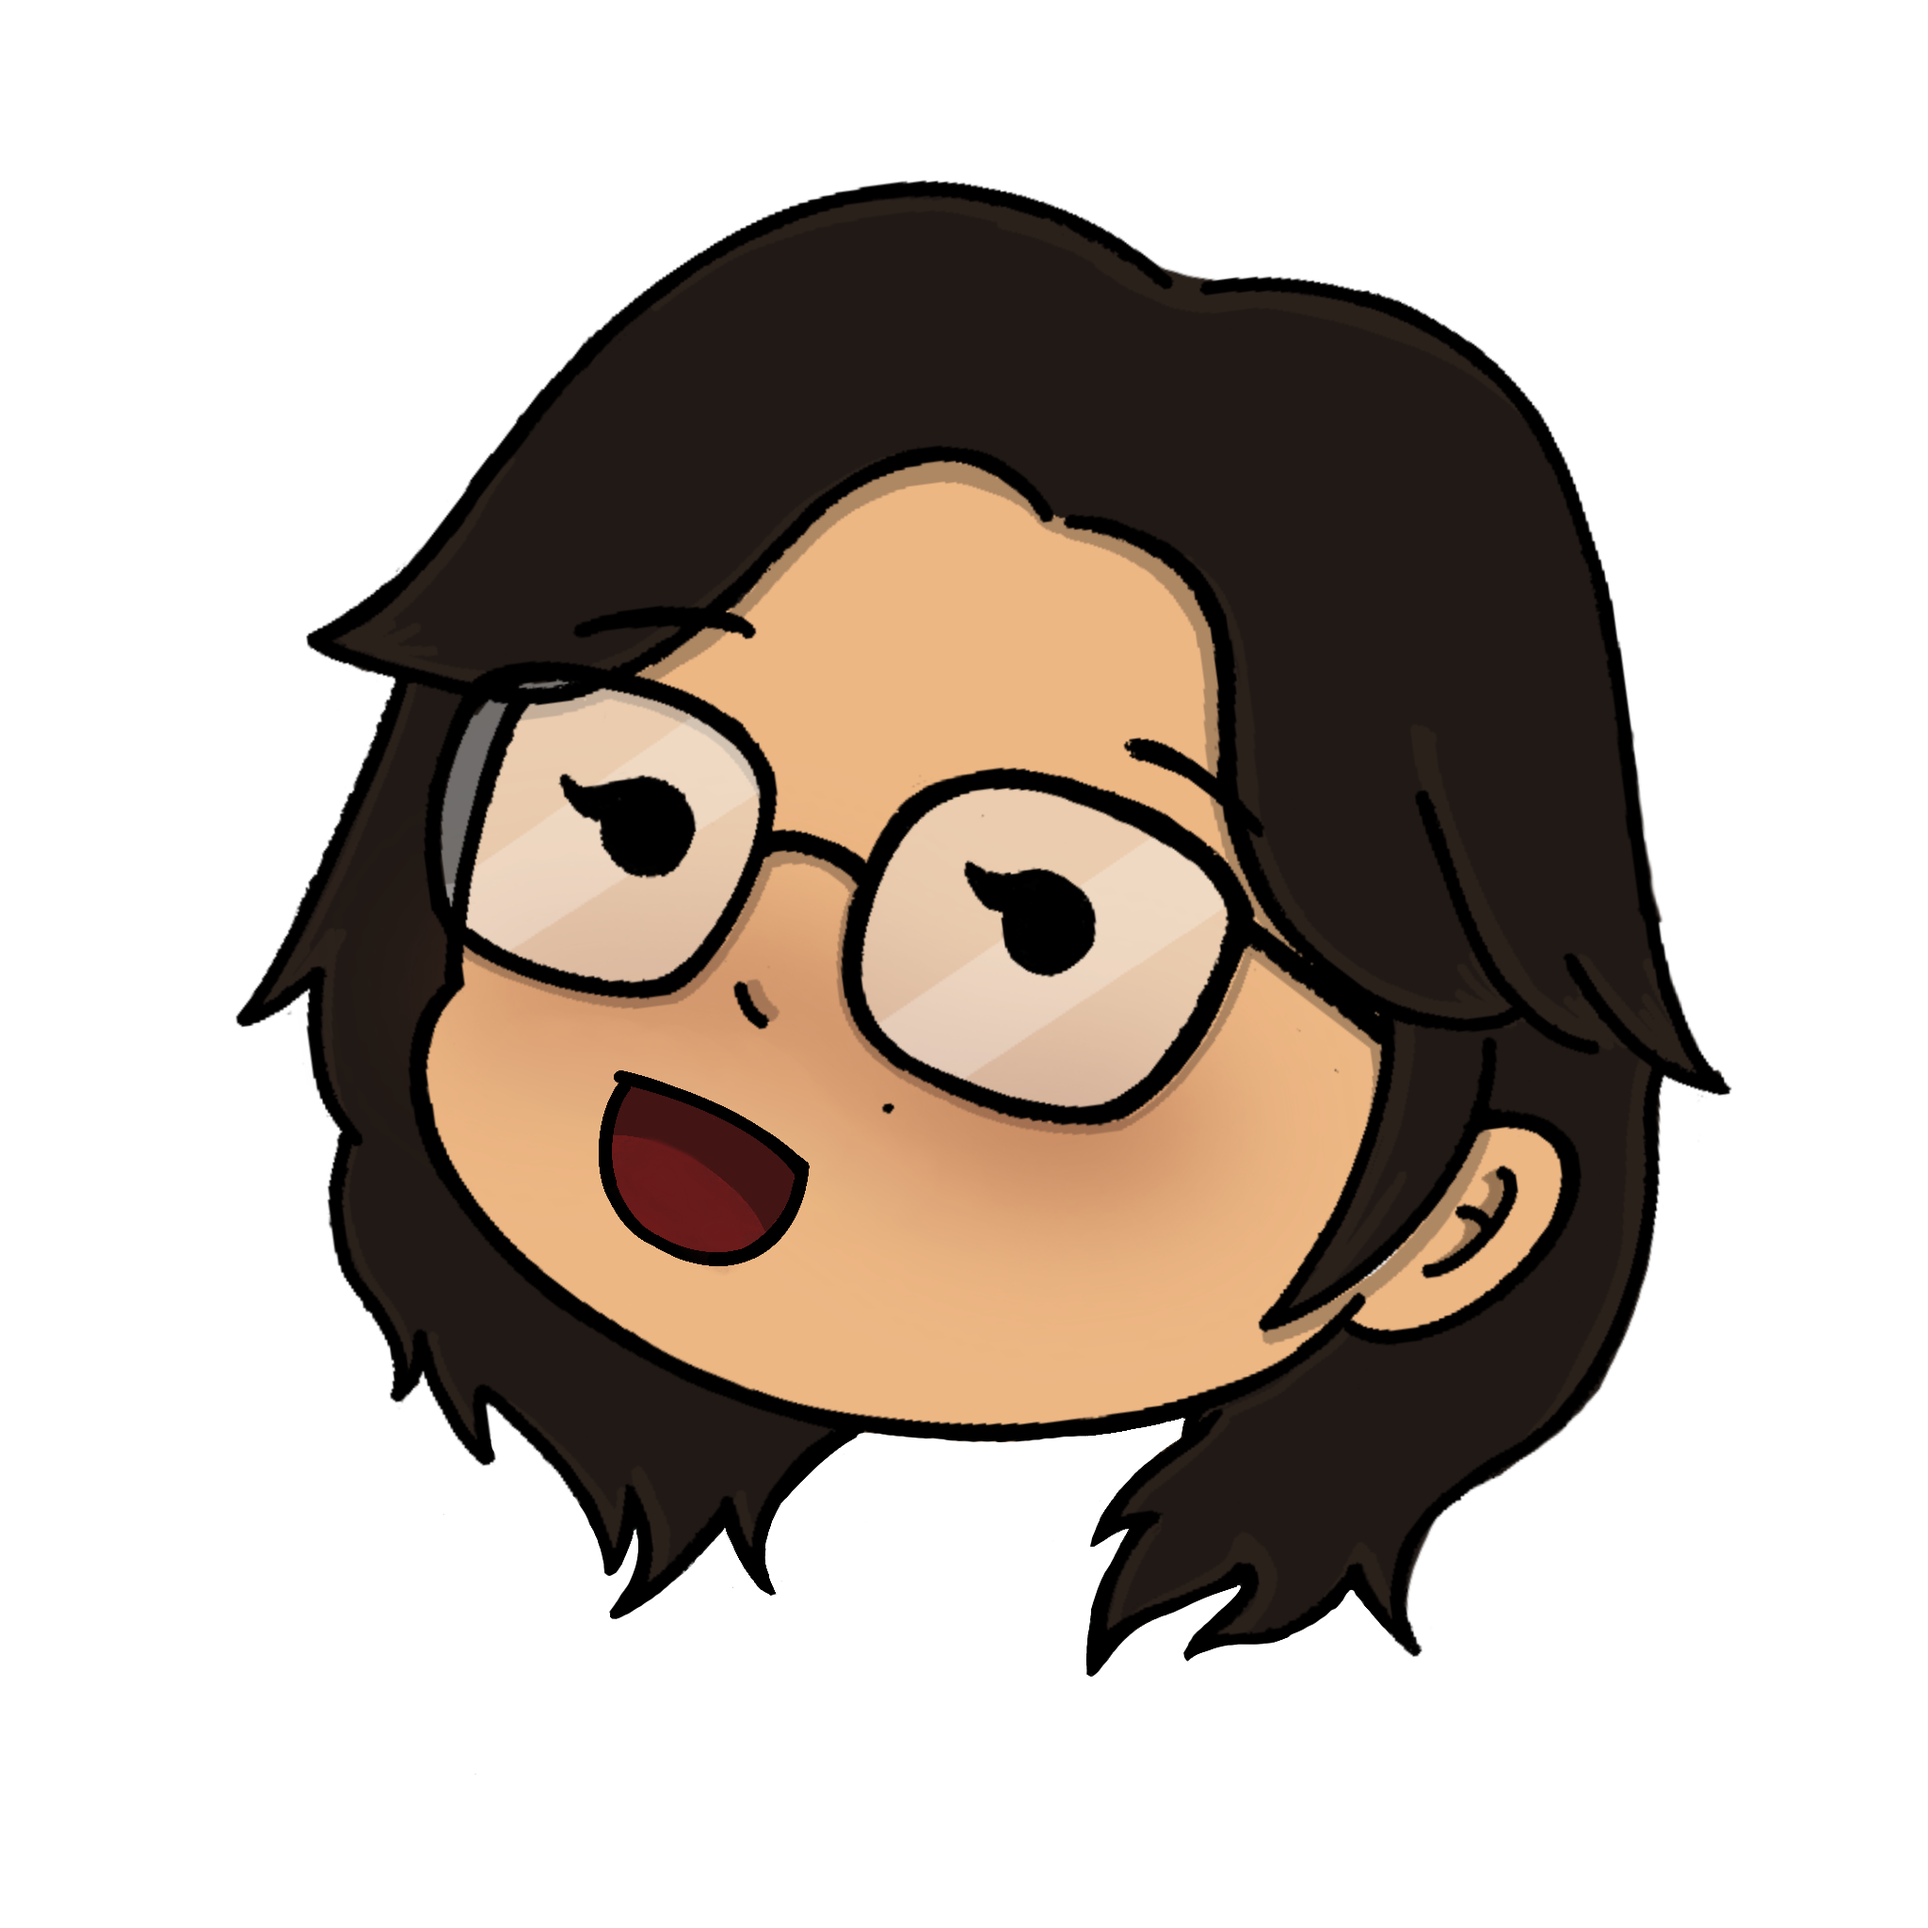
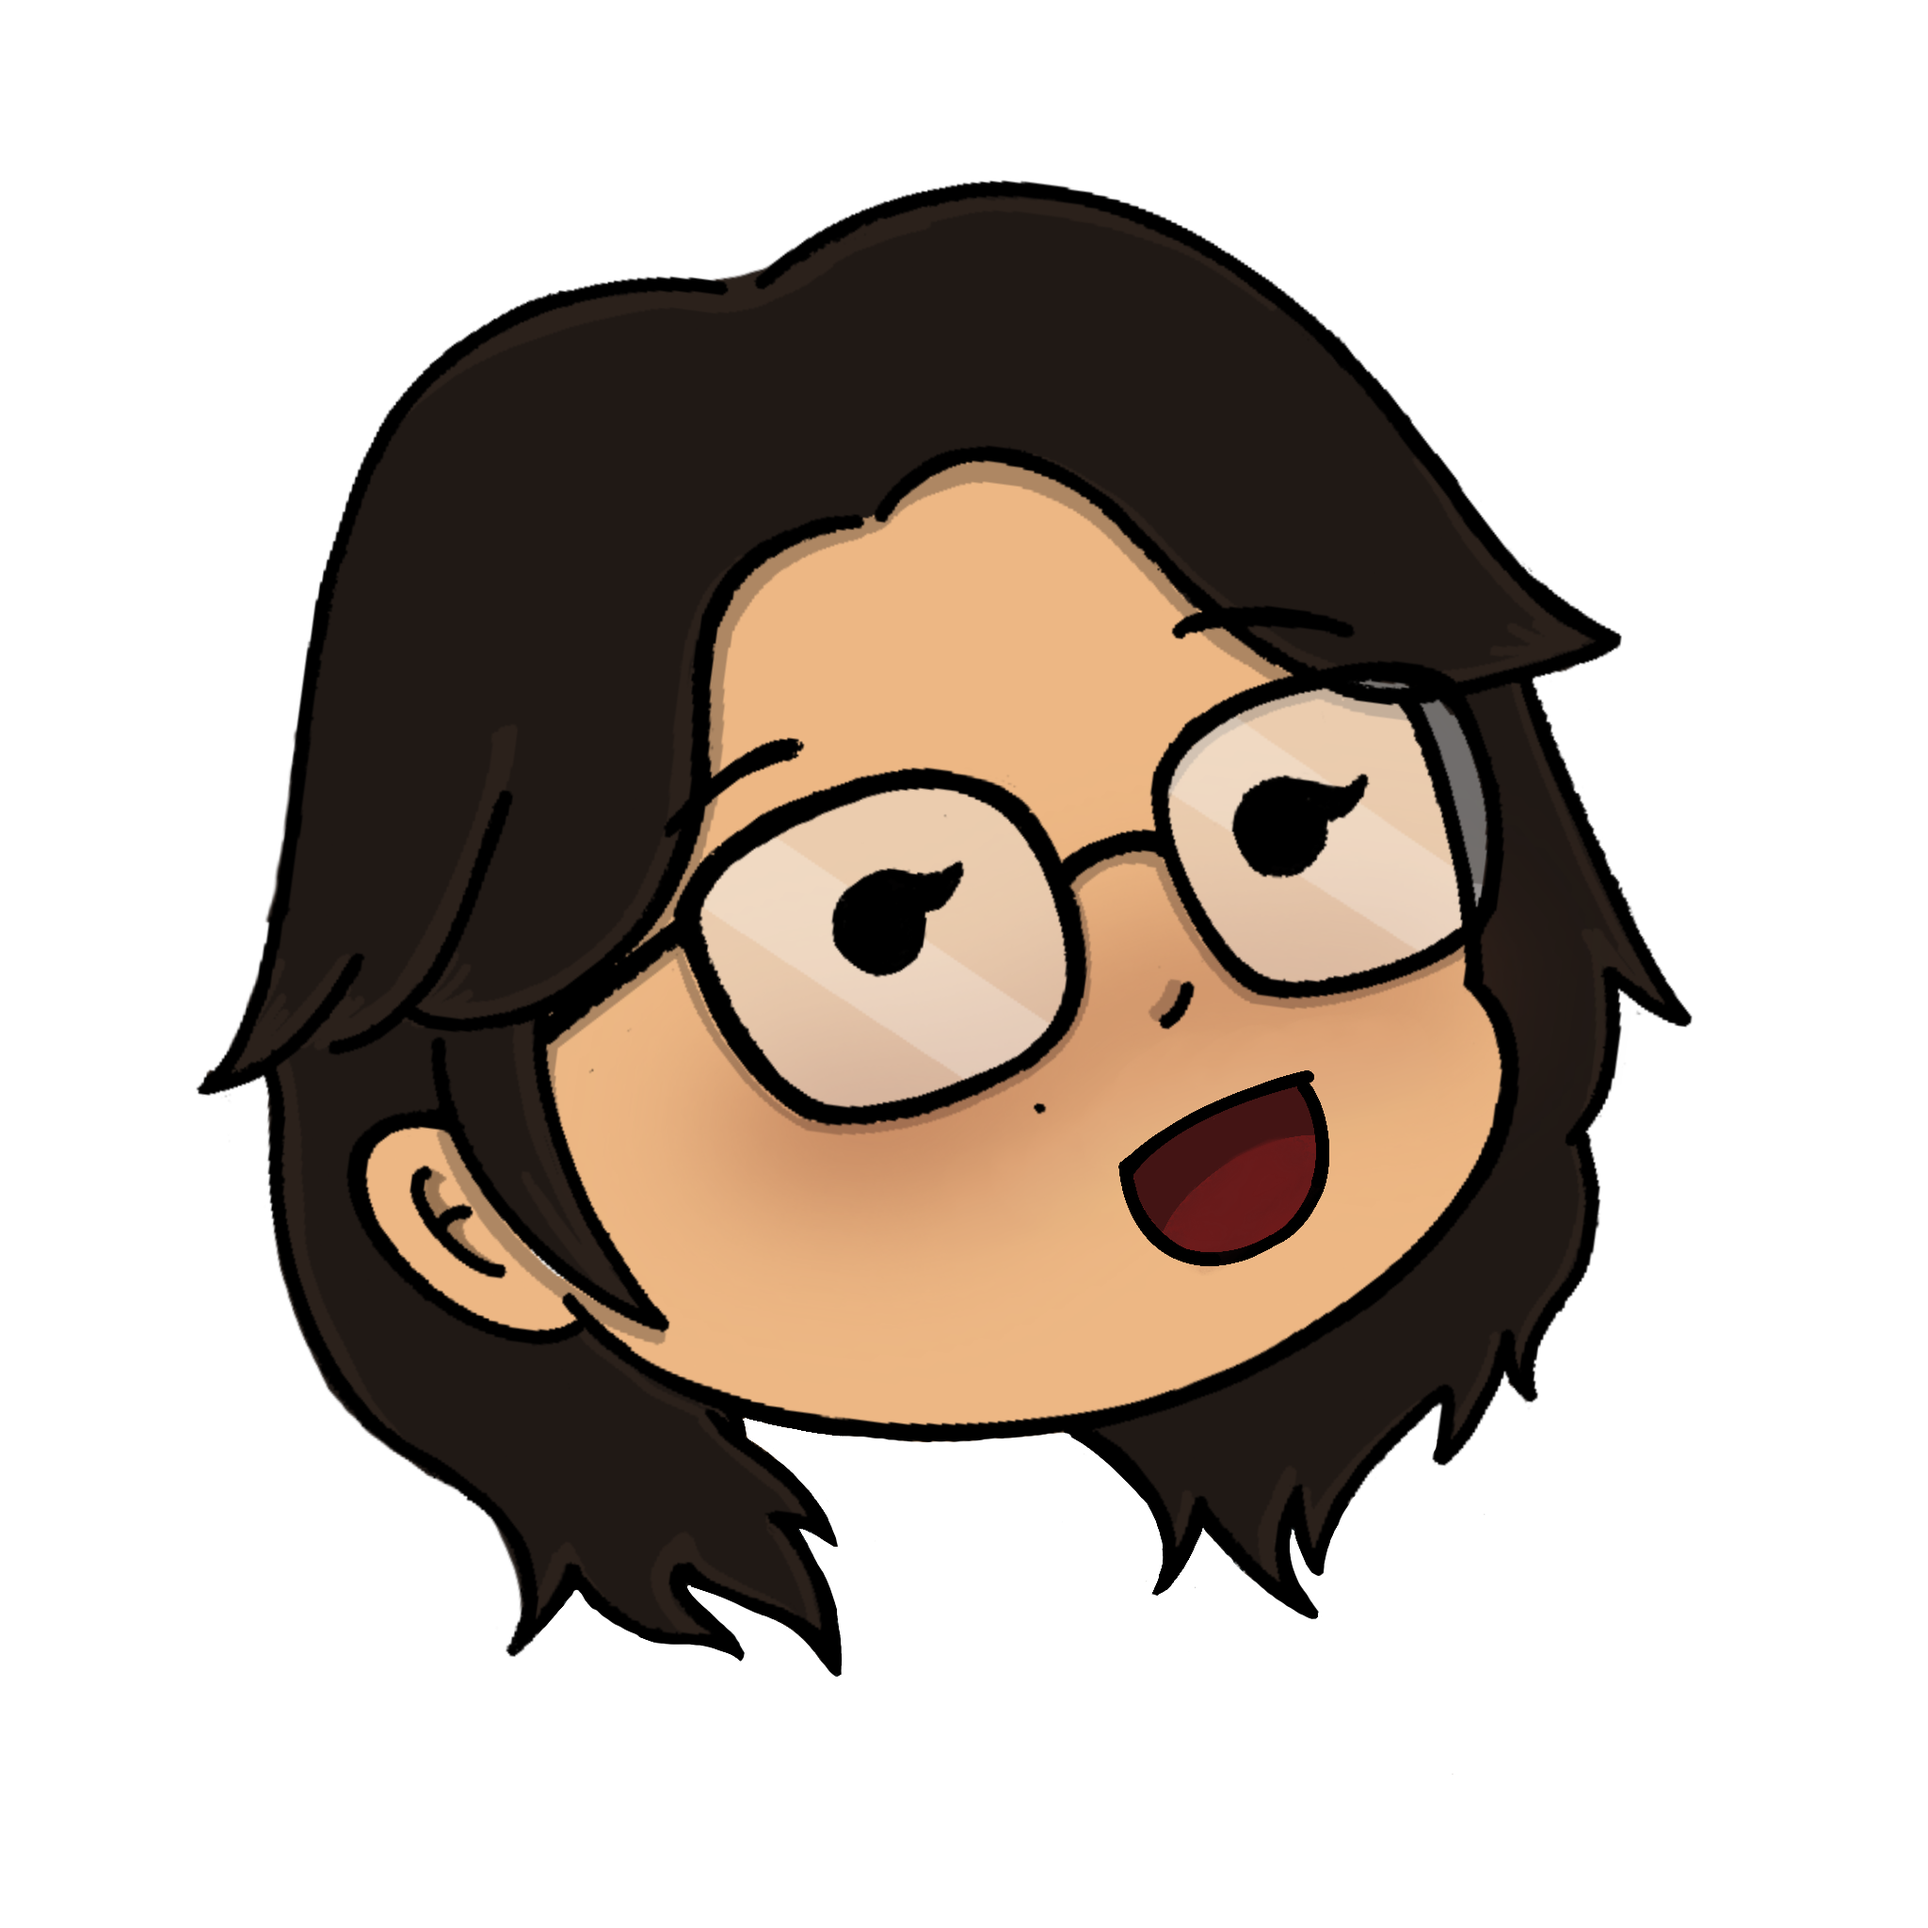
update

Changed region(s): [[0.0938, 0.0938, 0.9062, 0.875], [0.4062, 0.2188, 0.5938, 0.2812]]

diff --git a/style.css b/style.css
@@ -1003,6 +1003,9 @@ img.greeting-image {
     top: 0 !important;
 }
 
+
+
+
 @media (max-width: 768px) {
   .cv-btn-wrapper {  /* Centers inline/inline-block items */
     margin-top: 120px !important;
@@ -1017,6 +1020,13 @@ img.greeting-image {
     width: 100%;
     position: relative;
 }
+
+@media (max-width: 768px) {
+.mid-1 {
+    height: 560px !important;
+  }
+}
+
 #projects {
     width: 90%;
     margin: 0 auto;
@@ -1147,38 +1157,59 @@ img.greeting-image {
   display: flex;
   justify-content: center;
   align-items: center;
-  padding: 60px 20px;       /* Adds generous breathing room above and below the banner */
+  padding: 60px 20px;
   box-sizing: border-box;
 }
 
- /* Main dark brown container banner */
+/* ========================================================== */
+/* 🖥 DESKTOP VERSION                                         */
+/* ========================================================== */
 .languages-container {
-  background-color: #3d2f28; /* Dark brown background */
+  background-color: #3d2f28; 
   border-radius: 24px;
-  padding: 40px 50px;
-  max-width: 900px;
+  padding: 60px 80px; 
+  max-width: 1200px; 
   width: 100%;
   display: flex;
   align-items: center;
+  justify-content: space-between;
   gap: 40px;
   box-sizing: border-box;
 }
 
-/* --- Left Title Column --- */
+/* Flexbox reordering on desktop: Title -> Avatar -> List */
+.top-row-wrapper {
+  display: contents; 
+}
+.title-column { order: 1; }
+.avatar-column { order: 2; }
+.languages-list { 
+  order: 4;
+  display: flex;
+  flex-direction: column;
+  gap: 24px; 
+  flex-grow: 1;
+  max-width: 500px; 
+}
+
+/* ❌ DIVIDER HIDDEN ON DESKTOP */
+.vertical-divider { 
+  display: none; 
+}
+
 .title-column h2 {
-  color: #eaddcd; /* Light text color */
+  color: #eaddcd;
   margin: 0;
-  font-size: 2.5rem;
+  font-size: 3.5rem; 
   line-height: 1.1;
-  font-weight: normal;
 }
 
 .title-italic {
   font-family: 'Playfair Display', Georgia, serif;
   font-style: italic;
   display: block;
-  font-size: 1.8rem;
-  margin-bottom: 5px;
+  font-size: 2.2rem;
+  margin-bottom: 8px;
 }
 
 .title-bold {
@@ -1187,107 +1218,35 @@ img.greeting-image {
   font-weight: 700;
 }
 
-/* --- Vertical Divider --- */
-.vertical-divider {
-  width: 2px;
-  height: 100px;
-  background-color: #8c7b6e; /* Subtle muted line */
-  opacity: 0.6;
-}
-
-/* --- Middle Language List Column --- */
-.languages-list {
-  display: flex;
-  flex-direction: column;
-  gap: 16px;
-  flex-grow: 1;
-}
-
-/* Update the main banner container */
-.languages-container {
-  background-color: #3d2f28; 
-  border-radius: 24px;
-  
-  /* Increase padding inside to make the block taller/roomier */
-  padding: 60px 80px; 
-  
-  /* Swap max-width to match the layout width of your header/footer lines */
-  max-width: 1200px; 
-  width: 100%;
-  
-  display: flex;
-  align-items: center;
-  justify-content: space-between; /* Spreads components out perfectly */
-  gap: 50px;
-  box-sizing: border-box;
-}
-
-/* Make the title text larger to fill the left side */
-.title-column h2 {
-  color: #eaddcd;
-  margin: 0;
-  font-size: 3.5rem; /* Increased from 2.5rem */
-  line-height: 1.1;
-}
-
-.title-italic {
-  font-family: 'Playfair Display', Georgia, serif;
-  font-style: italic;
-  display: block;
-  font-size: 2.2rem; /* Increased from 1.8rem */
-  margin-bottom: 8px;
-}
-
-/* Give the middle list more presence */
-.languages-list {
-  display: flex;
-  flex-direction: column;
-  gap: 24px; /* Increased spacing between language boxes */
-  flex-grow: 1;
-  max-width: 500px; /* Gives the text bars a defined, longer width */
-}
-
-/* Ensure the main pill structure allows the tail to overflow outward */
+/* Base Pill settings */
 .language-item {
   background-color: #eaddcd;
   color: #3d2f28;
-  padding: 16px 32px;
+  padding: 16px 32px; 
   border-radius: 40px;
-  font-size: 1.1rem;
+  font-size: 1.1rem; 
   font-weight: 500;
   position: relative;
-  /* Make sure overflow is NOT hidden, otherwise the tail gets cut off */
-  overflow: visible; 
+  overflow: visible;
 }
 
-/* The curved speech bubble tail trick */
+/* Desktop tails pointing LEFT towards the middle avatar */
 .language-item::after {
   content: "";
   position: absolute;
-  
-  /* Positions the tail on the right side, lower half */
-  right: -12px; 
-  bottom: 12px;
-  
-  /* Creates a small square box to curve */
-  width: 24px;
-  height: 20px;
-  
-  /* Match the color of the pill */
+  left: -10px; 
+  bottom: 14px;
+  width: 22px;
+  height: 18px;
   background-color: #eaddcd; 
-  
-  /* This creates a curved wedge pointing downwards/outwards */
-  border-bottom-left-radius: 100px 70px;
-  border-bottom-right-radius: 40px 10px;
-  
-  /* Uses a mask shape to make it look like an organic swoosh */
-  clip-path: polygon(0 0, 100% 50%, 0 100%);
+  border-bottom-right-radius: 100px 70px;
+  border-bottom-left-radius: 40px 10px;
+  clip-path: polygon(100% 0, 0 50%, 100% 100%);
 }
 
-/* Scale up the avatar circle slightly to match the larger banner */
 .avatar-circle {
-  width: 210px; /* Increased from 130px */
-  height: 210px; /* Increased from 130px */
+  width: 160px; 
+  height: 160px; 
   background-color: #eaddcd;
   border-radius: 50%;
   overflow: hidden;
@@ -1302,6 +1261,93 @@ img.greeting-image {
   object-fit: contain;
 }
 
+@media (min-width: 769px) {
+  .desktop-br { display: inline; }
+}
+
+/* ========================================================== */
+/* 📱 SMARTPHONE RESPONSIVE STYLES                            */
+/* ========================================================== */
+@media (max-width: 768px) {
+  
+  .languages-container {
+    flex-direction: column;
+    align-items: center;
+    padding: 40px 20px;
+    gap: 20px;
+  }
+
+  /* Reset desktop alignment rules */
+  .title-column { order: unset; }
+  .avatar-column { order: unset; }
+  .languages-list { order: unset; }
+
+  /* Activate top bar structure (Title left, Avatar right) */
+  .top-row-wrapper {
+    display: flex;
+    width: 100%;
+    justify-content: space-between;
+    align-items: center;
+    padding: 0 25px;
+  }
+
+  .title-column {
+    text-align: left;
+  }
+  .title-column h2 {
+    font-size: 2.2rem; 
+    line-height: 1.1;
+  }
+  .title-italic {
+    font-size: 1.4rem;
+  }
+  .desktop-br {
+    display: block; 
+  }
+
+  .avatar-circle {
+    width: 100px;
+    height: 100px;
+  }
+
+  .avatar-circle img {
+    width: 100%;
+    height: 100%;
+    object-fit: contain;
+  }
+
+  /*  DIVIDER VISIBLE ON MOBILE: Becomes a clean accent underline */
+  .vertical-divider {
+    display: block;    /* Turns it back on for mobile screen widths */
+    width: 100%;       
+    height: 2px;      
+    background-color: #8c7b6e;
+    opacity: 0.4;
+    margin: 10px 0;
+  }
+
+  .languages-list {
+    width: 100%;
+    align-items: center;
+    gap: 14px;
+    max-width: 100%;
+  }
+
+  /* Symmetrical standard language pills */
+  .language-item {
+    width: 100%;       
+    text-align: center;
+    font-size: 0.95rem;
+    padding: 14px 20px;
+    border-radius: 40px;
+    box-sizing: border-box;
+  }
+
+  /* Hide the speech bubble pointer shapes safely on mobile layout */
+  .language-item::after {
+    display: none !important;
+  }
+}
 
 .contact {
     display: flex;

diff --git a/index.html b/index.html
@@ -196,8 +196,40 @@
 
     <section class="languages-section">
         <div class="languages-container">
+            
+            <!-- This wrapper is 'invisible' on desktop but groups them on mobile -->
+            <div class="top-row-wrapper">
+            <!-- Title -->
+                <div class="title-column">
+                    <h2>
+                    <span class="title-italic">The</span>
+                    <span class="title-bold">Languages<br class="desktop-br"> I Speak</span>
+                    </h2>
+                </div>
+
+                <!-- Avatar -->
+                <div class="avatar-column">
+                    <div class="avatar-circle">
+                    <img src="/img-src/chibi-rara.png" alt="Avatar illustration">
+                    </div>
+                </div>
+            </div>
+
+            <!-- Divider Line (Stays in the middle on desktop) -->
+            <div class="vertical-divider"></div>
+
+            <!-- Language Bars -->
+            <div class="languages-list">
+                <div class="language-item">Indonesian (Native Speaker)</div>
+                <div class="language-item">English (Second Language)</div>
+                <div class="language-item">Japanese (N3)</div>
+            </div>
+        </div>
+    </section>
+
+    <!--<section class="languages-section">
+        <div class="languages-container">
     
-            <!-- Left Column: Title -->
             <div class="title-column">
                 <h2>
                     <span class="title-italic">The</span>
@@ -205,24 +237,21 @@
                 </h2>
             </div>
 
-            <!-- Divider Line -->
             <div class="vertical-divider"></div>
 
-            <!-- Middle Column: Language Bars -->
             <div class="languages-list">
                 <div class="language-item">Indonesian (Native Speaker)</div>
                 <div class="language-item">English (Second Language)</div>
                 <div class="language-item">Japanese (N3)</div>
             </div>
 
-            <!-- Right Column: Avatar -->
             <div class="avatar-column">
                 <div class="avatar-circle">
                     <img src="/img-src/chibi-rara.png" alt="Avatar illustration">
                 </div>
             </div>
         </div>
-    </section>
+    </section>-->
 
     <div id="footer">
         <div class="contact">
